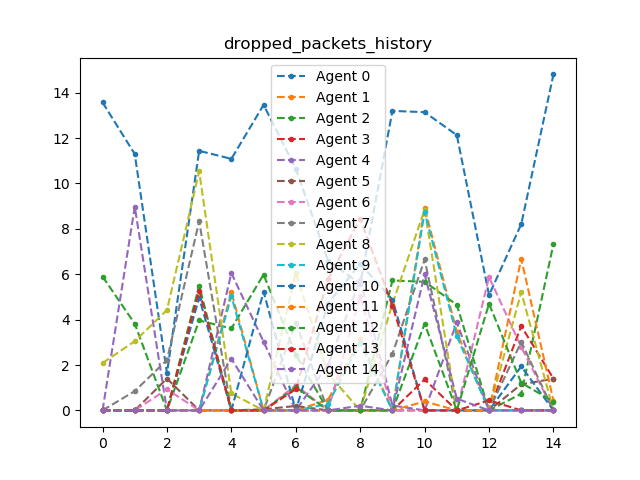
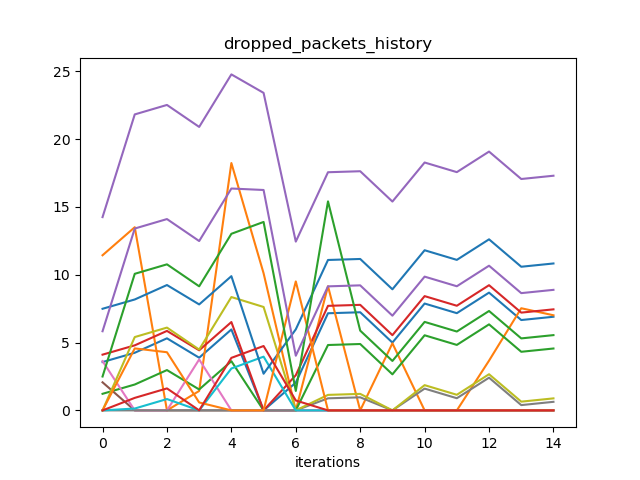
modified figurs

diff --git a/router-game.py b/router-game.py
@@ -173,15 +173,17 @@ class Game:
 
         fig1, ax1 = plt.subplots()
         fig2, ax2 = plt.subplots()
+        #fig1.figsize(100,100)
         for agent in self.agents:
-            ax1.plot(agent.dropped_packets_history,
-                     '.--', label=f'Agent {agent.id}')
-            ax2.plot(agent.cost_history,
-                     '.--', label=f'Agent {agent.id}')
+            ax1.plot(agent.dropped_packets_history)
+            ax2.plot(agent.cost_history)
         ax1.set_title("dropped_packets_history")
         ax2.set_title("cost history")
-        ax1.legend()
-        ax2.legend()
+        ax1.set_xlabel("dropped_packets")
+        ax2.set_ylabel("cost")
+        ax1.set_xlabel("iterations")
+        ax2.set_ylabel("iterations")
+
         plt.show()
         fig1.savefig(f'dropped_packets_{len(self.agents)}_agents_{self.coalition_num}_coalition_{no_steps}_steps.png')
         fig1.savefig(f'cost_history_{len(self.agents)}_agents_{self.coalition_num}_coalition_{no_steps}_steps.png')
